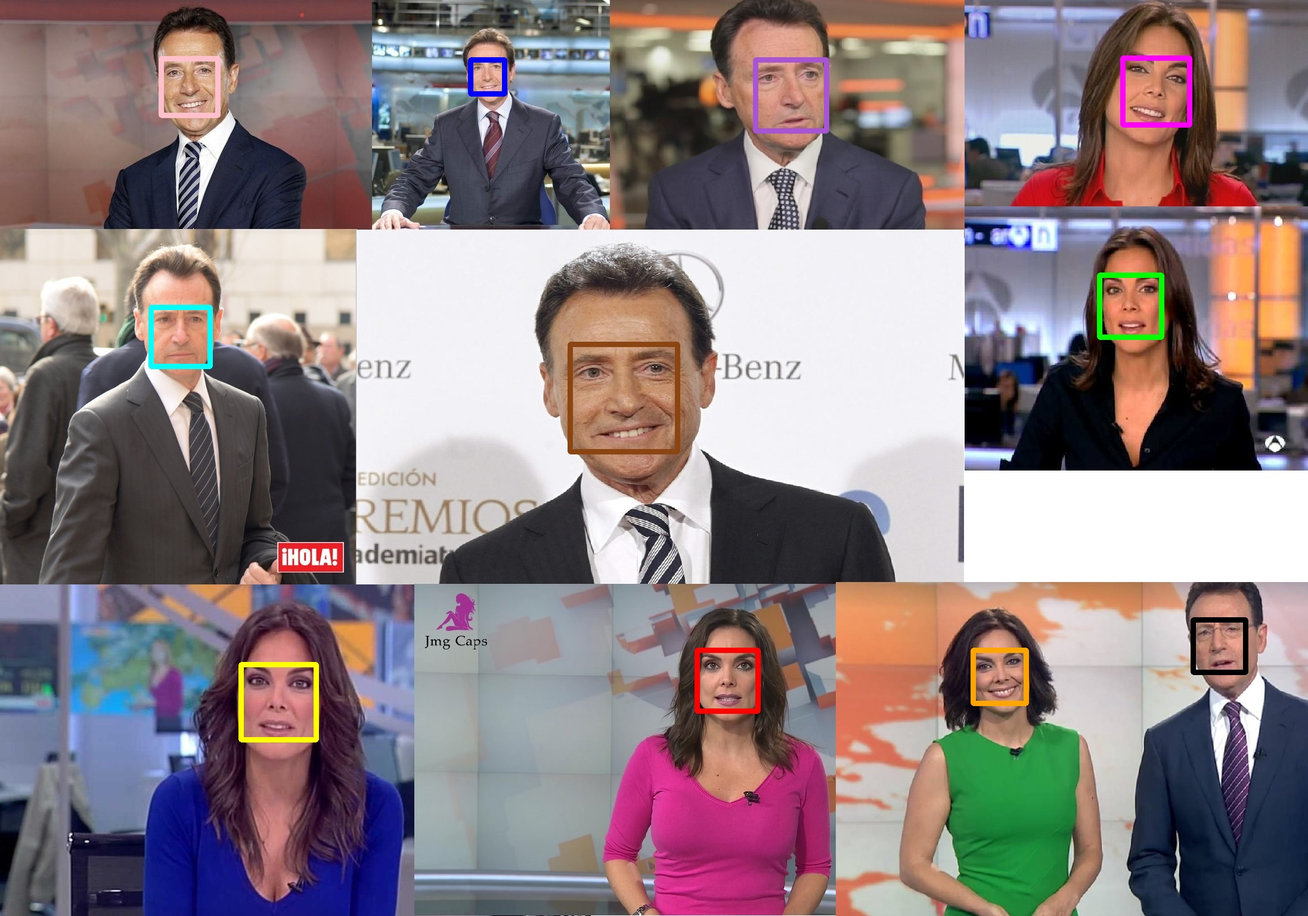
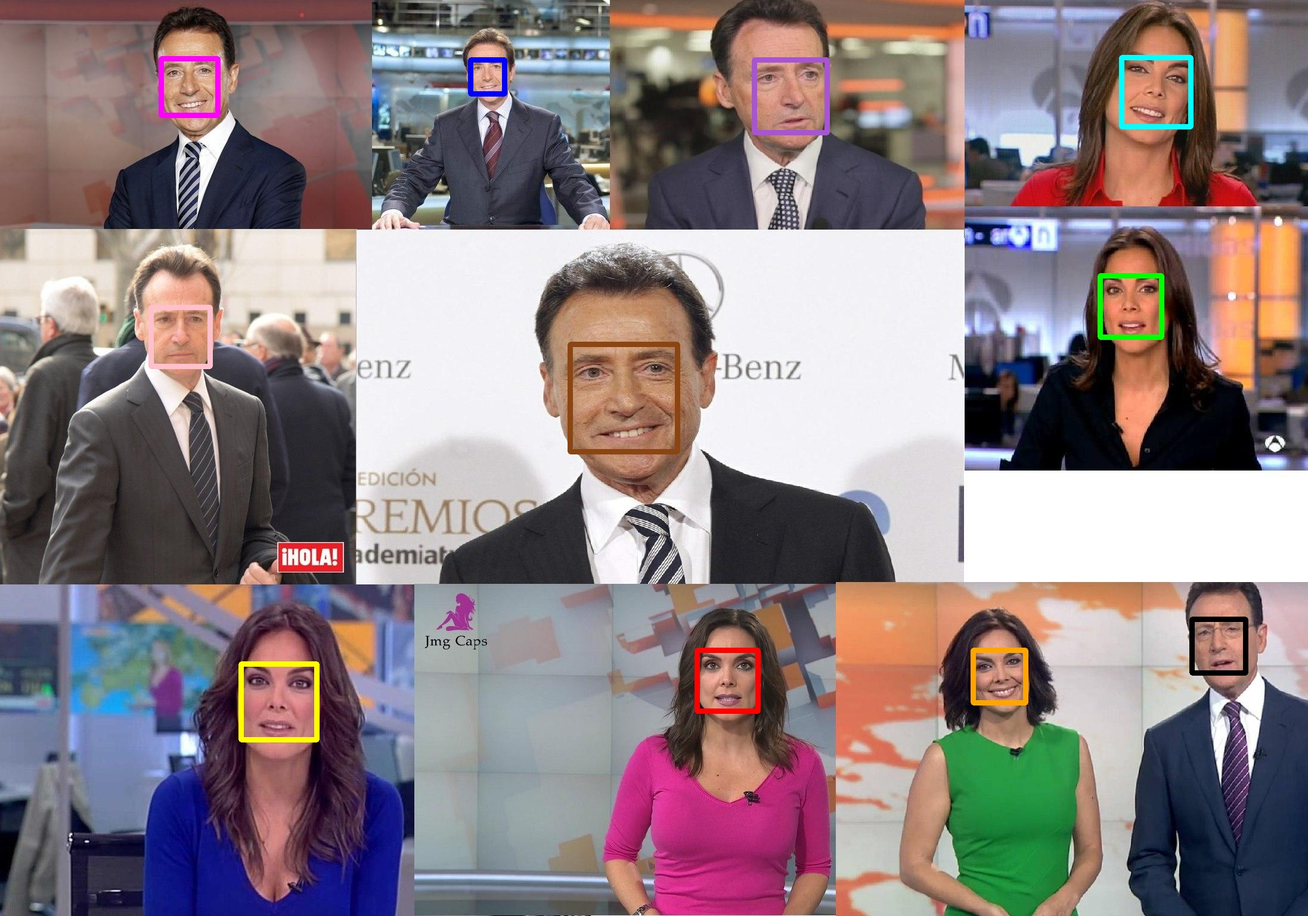
- Ahora se envían imágenes y el bot responde con los porcentajes y las etiquetas de las caras que detecta en la imagen. - Añadidas nuevos atributos a la clase Constantes. - Adaptado ciclo de subir imagen

diff --git a/src/photoBot/Agentes/Comportamiento/ComportamientoAgenteConversacionUsuario.java b/src/photoBot/Agentes/Comportamiento/ComportamientoAgenteConversacionUsuario.java
@@ -4,6 +4,7 @@ import java.io.File;
 import java.io.IOException;
 import java.io.Serializable;
 import java.util.HashMap;
+import java.util.Iterator;
 import java.util.List;
 
 import org.apache.commons.lang3.tuple.Triple;
@@ -25,9 +26,6 @@ import jade.lang.acl.UnreadableException;
 
 public class ComportamientoAgenteConversacionUsuario extends CyclicBehaviour {
 
-	/**
-	 * 
-	 */
 	private static final long serialVersionUID = 1L;
 	private PhotoBot photoBot;
 	private ComportamientoAgenteConversacionUsuario self;
@@ -75,7 +73,7 @@ public class ComportamientoAgenteConversacionUsuario extends CyclicBehaviour {
 				if(comando == ConstantesComportamiento.ENTREGAR_IMG_ENCONTRADAS) {
 					obtenerImagenesBusquedaAgente(msj, msjContent);
 				}
-				else if(comando ==  ConstantesComportamiento.RESPUESTA_SUBIDA_IMAGENES) {
+				else if(comando ==  ConstantesComportamiento.RESULTADO_RECONOCIMIENTO_IMAGEN) {
 					recibirRespuestaSubidaImagenes(msj, msjContent);
 				}
 				else if(comando == -1) {
@@ -108,7 +106,6 @@ public class ComportamientoAgenteConversacionUsuario extends CyclicBehaviour {
 					
 				}
 				
-			
 			} catch (GateException e) {
 				e.printStackTrace();
 			}
@@ -116,9 +113,6 @@ public class ComportamientoAgenteConversacionUsuario extends CyclicBehaviour {
 			//4- Marcar mensaje como leido
 			photoBot.mensajeLeido();
 		}
-
-
-		
 	}
 	
 	public void bot_saludar() {
@@ -166,7 +160,7 @@ public class ComportamientoAgenteConversacionUsuario extends CyclicBehaviour {
 		msjContent.put("LISTA", lFotos);
 						
 		ACLMessage msj = new ACLMessage(ACLMessage.INFORM);
-		msj.addReceiver(new AID("AgenteAlmacenarImagenes", AID.ISLOCALNAME));
+		msj.addReceiver(new AID(ConstantesComportamiento.AGENTE_ALMACENAR_IMAGEN, AID.ISLOCALNAME));
 		
 		try {
 			msj.setContentObject((Serializable)msjContent);
@@ -176,30 +170,15 @@ public class ComportamientoAgenteConversacionUsuario extends CyclicBehaviour {
 			e.printStackTrace();
 		}
 		
-		/*
-		ACLMessage respuesta = self.getAgent().receive();
-		
-		while(respuesta == null) {
-			respuesta = self.getAgent().receive();
-		}
-		
-		String ret = "";
-		
-		if(respuesta.getContent().equals("OK")){
-			ret = "Ya he recibido y almacenado correctamente tus imágenes.";
-			this.conversacion.fotosCargadasCorrectamente();
-			this.conversacion.solicitudSubirFotoFinalizada();
-		}
-		else{
-			ret = "Ha ocurrido un error :( ... ¿Puedes mandarme de nuevo las imágenes?";
-		}
-		
-		photoBot.enviarMensajeTextoAlUsuario(ret);
-		*/
 	}
 	
 	private void recibirRespuestaSubidaImagenes(ACLMessage msj, HashMap<String, Object> contenido) {
 		//if() DEPENDIENDO DE LA RESPUESTA (TODO OK, O FALTAN DATOS) HACER UNA COSA U OTRA
+		List<Triple<String, Integer, Double>> tripletaColorEtiquetaProbabilidad = (List<Triple<String, Integer, Double>>) contenido.get("RESULTADO_RECONOCIMIENTO");
+		
+		for (Triple<String, Integer, Double> triple : tripletaColorEtiquetaProbabilidad) {
+			photoBot.enviarMensajeTextoAlUsuario("El de color: " + triple.getLeft() + " es: " + triple.getMiddle() + " con un porcentaje del: " + triple.getRight());
+		}
 	}
 	
 	/**

diff --git a/src/photoBot/Agentes/Comportamiento/ComportamientoAgenteGestionarCaras.java b/src/photoBot/Agentes/Comportamiento/ComportamientoAgenteGestionarCaras.java
@@ -27,69 +27,66 @@ public class ComportamientoAgenteGestionarCaras extends CyclicBehaviour{
 		super(a);
 		this.self = this;
 		this.gestorCaras = new GestorDeCaras();
-		
-		
+
+
 	}
-	
+
 	@Override
 	public void action() {
 		ACLMessage msj = this.self.getAgent().receive();
 		List<String> list = new ArrayList<>();
-		
+
 		if(msj != null){
-			
+
 			HashMap<String, Object> msjContent;
-			String comando;	
-			
+			int comando;	
+
+
 			try {
-				
 				msjContent = (HashMap<String, Object>) msj.getContentObject();
-								
-				switch ((String) msjContent.get("COMANDO")) {
-				case "DETECTAR_CARAS":
-					
-					String idUsuario = (String) msjContent.get("ID");
-					String urlImagen = (String) msjContent.get("URL_IMAGEN");
-					
-					CarasDetectadas carasDetectadas = this.gestorCaras.obtenerCarasImagen(urlImagen, idUsuario);
-					List<Triple<String, Integer, Double>> tripletaColorEtiquetaProbabilidad = carasDetectadas.getListOfColorTagProbability();
-					
-						
-					msj = new ACLMessage(ACLMessage.INFORM);
-					msj.addReceiver(new AID("AgenteConversacionUsuario", AID.ISLOCALNAME));
-					
-					try {
-						msj.setContentObject((Serializable) tripletaColorEtiquetaProbabilidad);
-						getAgent().send(msj);
-					} catch (IOException e) {
-						// TODO Auto-generated catch block
-						e.printStackTrace();
-					}
-					
-					/**
-					 PENDIENTE PROCESAR POR SEPARADO
-					for (Triple<String, Integer, Double> triple : tripletaColorEtiquetaProbabilidad) {
-						
-					}**/
-					
-					
-					break;
-				
-				case "...":
-					
-					
-					break;
-					
-				default:
-					break;
-				}		
-				
-				
+				comando = (int) msjContent.get("COMANDO");
+
+				if (comando == ConstantesComportamiento.RECONOCER_CARAS){
+					enviarResultadosClasificacionAgenteConversacional(msjContent);
+				}
 			} catch (UnreadableException e) {
+				// TODO Auto-generated catch block
 				e.printStackTrace();
 			}
-			
+
+		}
+
+
+
+	}
+
+	private void enviarResultadosClasificacionAgenteConversacional(HashMap<String, Object> msjContent){
+		ACLMessage msj = this.self.getAgent().receive();
+		msj = new ACLMessage(ACLMessage.INFORM);
+
+		String idUsuario = (String) msjContent.get("ID");
+		String urlImagen = (String) msjContent.get("URL_IMAGEN");
+
+		CarasDetectadas carasDetectadas = this.gestorCaras.obtenerCarasImagen(urlImagen, idUsuario);
+		List<Triple<String, Integer, Double>> tripletaColorEtiquetaProbabilidad = carasDetectadas.getListOfColorTagProbability();
+
+
+		msjContent = new HashMap<String, Object>();
+
+		msj.addReceiver(new AID(ConstantesComportamiento.AGENTE_CONVERSACION_USUARIO, AID.ISLOCALNAME));
+
+		msjContent.put("COMANDO", ConstantesComportamiento.RESULTADO_RECONOCIMIENTO_IMAGEN);
+		msjContent.put("RESULTADO_RECONOCIMIENTO", tripletaColorEtiquetaProbabilidad);
+
+		try {
+			msj.setContentObject(msjContent);
+			getAgent().send(msj);
+
+		} catch (IOException e) {
+			// TODO Auto-generated catch block
+			e.printStackTrace();
 		}
 	}
+
 
 }

diff --git a/src/photoBot/Agentes/Comportamiento/ComportamientoAgenteAlmacenarImagen.java b/src/photoBot/Agentes/Comportamiento/ComportamientoAgenteAlmacenarImagen.java
@@ -29,9 +29,7 @@ public class ComportamientoAgenteAlmacenarImagen extends FSMBehaviour {
 		this.self = this;
 		
 		registerFirstState(new OneShotBehaviour() {
-			/**
-			 * 
-			 */
+
 			private static final long serialVersionUID = 1L;
 			private int estado = 0;
 
@@ -50,9 +48,7 @@ public class ComportamientoAgenteAlmacenarImagen extends FSMBehaviour {
 		
 		
 		registerState(new OneShotBehaviour() {
-			/**
-			 * 
-			 */
+
 			private static final long serialVersionUID = 1L;
 			private int estado = 1;
 
@@ -90,9 +86,7 @@ public class ComportamientoAgenteAlmacenarImagen extends FSMBehaviour {
 		}, "ESTADO_ESPERA_RECIBIR");
 		
 		registerState(new OneShotBehaviour() {
-			/**
-			 * 
-			 */
+
 			private static final long serialVersionUID = 1L;
 			private int estado = 3;
 
@@ -114,12 +108,12 @@ public class ComportamientoAgenteAlmacenarImagen extends FSMBehaviour {
 						
 						HashMap<String, Object> msjContent = new HashMap<String, Object>();
 						
-						
+						msjContent.put("COMANDO", ConstantesComportamiento.RECONOCER_CARAS);
 						msjContent.put("ID", userID);
 						msjContent.put("URL_IMAGEN", url_img);
 										
 						ACLMessage msj = new ACLMessage(ACLMessage.INFORM);
-						msj.addReceiver(new AID("AgenteGestionarCaras", AID.ISLOCALNAME));
+						msj.addReceiver(new AID(ConstantesComportamiento.AGENTE_GESTIONAR_CARAS, AID.ISLOCALNAME));
 						
 						try {
 							msj.setContentObject((Serializable)msjContent);
@@ -138,11 +132,7 @@ public class ComportamientoAgenteAlmacenarImagen extends FSMBehaviour {
 
 				}	
 				
-				/*ACLMessage msj = new ACLMessage(ACLMessage.INFORM);
-				msj.addReceiver(new AID("AgenteConversacional", AID.ISLOCALNAME));
-				msj.setContent("OK");
-				self.getAgent().send(msj);*/
-				
+	
 				this.estado = 4;
 			}
 			

diff --git a/src/photoBot/OpenCV/GestorDeCaras.java b/src/photoBot/OpenCV/GestorDeCaras.java
@@ -119,11 +119,11 @@ public class GestorDeCaras {
 	private void actualizarClasificadorPersonalizado(int idClasificador, CarasDetectadas carasDetectadas) {
 		
 		FaceRecognizer lbphClasificador = LBPHFaceRecognizer.create();
-		lbphClasificador.read("./clasificadores/" + idClasificador);
+		lbphClasificador.read("./clasificadores/" + idClasificador + ".xml");
 		
 		lbphClasificador.update(carasDetectadas.getListOfMat(), carasDetectadas.getListOfLabels());
 		
-		lbphClasificador.save("./clasificadores/" + idClasificador);
+		lbphClasificador.save("./clasificadores/" + idClasificador + ".xml");
 	}
 	
 	private void crearClasificadorPersonalizado(int idUsuario, CarasDetectadas carasDetectadas) {
@@ -131,7 +131,7 @@ public class GestorDeCaras {
 		
 		lbphClasificador.train(carasDetectadas.getListOfMat(), carasDetectadas.getListOfLabels());
 		
-		lbphClasificador.save("./clasificadores/" + idUsuario);
+		lbphClasificador.save("./clasificadores/" + idUsuario + ".xml");
 	}
 	
 	private List<Pair<Integer, Double>> dameEtiquetasPorcentajes(MatOfRect carasDetectadas, String urlImagen, String idUsuario){
@@ -144,11 +144,11 @@ public class GestorDeCaras {
 		FaceRecognizer lbphClasificador = LBPHFaceRecognizer.create();
 		
 		//1. Ver si existe el clasificador
-		File f = new File("./clasificadores/" + idUsuario);
+		File f = new File("./clasificadores/" + idUsuario + ".xml");
 		
 		//2. Si el clasificador existe
 		if(f.exists()){
-			lbphClasificador.read("./clasificadores/" + idUsuario);
+			lbphClasificador.read("./clasificadores/" + idUsuario + ".xml");
 			
 			for(Rect rect : carasDetectadas.toArray()) {
 				Mat cara = new Mat(imagen, rect);

diff --git a/src/photoBot/Main.java b/src/photoBot/Main.java
@@ -3,6 +3,7 @@ package photoBot;
 import jade.core.ProfileImpl;
 import jade.core.Runtime;
 import jade.wrapper.*;
+import photoBot.Agentes.Comportamiento.ConstantesComportamiento;
 public class Main {
 	
 	public static void main(String[] args) {
@@ -15,17 +16,20 @@ public class Main {
 		try {
 			
 			//AGENTE CONVERSACION
-			AgentController agentController = container.createNewAgent("AgenteConversacional", "photoBot.Agentes.AgenteConversacionUsuario", null);			
+			AgentController agentController = container.createNewAgent(ConstantesComportamiento.AGENTE_CONVERSACION_USUARIO, "photoBot.Agentes.AgenteConversacionUsuario", null);			
 			agentController.start();
 			
 			//AGENTE SUBIR iMAGEN
-			agentController = container.createNewAgent("AgenteAlmacenarImagenes", "photoBot.Agentes.AgenteAlmacenarImagenes", null);			
+			agentController = container.createNewAgent(ConstantesComportamiento.AGENTE_ALMACENAR_IMAGEN, "photoBot.Agentes.AgenteAlmacenarImagenes", null);			
 			agentController.start();
 			
 			//AGENTE BUSCAR iMAGEN
-			agentController = container.createNewAgent("AgenteBuscarImagen", "photoBot.Agentes.AgenteBuscarImagen", null);			
+			agentController = container.createNewAgent(ConstantesComportamiento.AGENTE_BUSCAR_IMAGEN, "photoBot.Agentes.AgenteBuscarImagen", null);			
 			agentController.start();
 			
+			//AGENTE GESTIONAR CARAS
+			agentController = container.createNewAgent(ConstantesComportamiento.AGENTE_GESTIONAR_CARAS, "photoBot.Agentes.AgenteGestionarCaras", null);			
+			agentController.start();			
 			
 		} catch (StaleProxyException e) {
 			e.printStackTrace();

diff --git a/src/photoBot/Agentes/Comportamiento/ConstantesComportamiento.java b/src/photoBot/Agentes/Comportamiento/ConstantesComportamiento.java
@@ -5,21 +5,26 @@ public final class ConstantesComportamiento {
 	public static final int ENVIAR_IMG_AGENTE;
 	public static final int SOLICITAR_IMG_AGENTE;
 	public static final int ENTREGAR_IMG_ENCONTRADAS;
-	public static final int RESPUESTA_SUBIDA_IMAGENES;
-	public static final int SUBIDA_IMG_EXITO;
-	public static final int SUBIDA_IMG_ERROR;
-	public static final int SUBIDA_IMG_REQ_DATOS;
-	
+	public static final int RESULTADO_RECONOCIMIENTO_IMAGEN;
+	public static final int RECONOCER_CARAS;
+
+	public static final String AGENTE_ALMACENAR_IMAGEN;
+	public static final String AGENTE_BUSCAR_IMAGEN;
+	public static final String AGENTE_CONVERSACION_USUARIO;
+	public static final String AGENTE_GESTIONAR_CARAS;
+
 	static {
 		OBTENER_IMG_AGENTE = 1;
 		ENVIAR_IMG_AGENTE = 2;
 		SOLICITAR_IMG_AGENTE = 3;
 		ENTREGAR_IMG_ENCONTRADAS = 4;
-		RESPUESTA_SUBIDA_IMAGENES = 5;
-		SUBIDA_IMG_EXITO = 6;
-		SUBIDA_IMG_ERROR = 7;
-		SUBIDA_IMG_REQ_DATOS = 8;
+		RESULTADO_RECONOCIMIENTO_IMAGEN = 5;
+		RECONOCER_CARAS = 6;
 		
+		AGENTE_ALMACENAR_IMAGEN = "AgenteAlmacenarImagenes";
+		AGENTE_BUSCAR_IMAGEN = "AgenteBuscarImagen";
+		AGENTE_CONVERSACION_USUARIO = "AgenteConversacional";
+		AGENTE_GESTIONAR_CARAS = "AgenteGestionarCaras";
 	}
 	
 	public ConstantesComportamiento() {

diff --git a/src/photoBot/OpenCV/CarasDetectadas.java b/src/photoBot/OpenCV/CarasDetectadas.java
@@ -32,8 +32,11 @@ public class CarasDetectadas {
 	 */
 	public CarasDetectadas(MatOfRect caras, List<Pair<Integer, Double>> personas, String url) {
 		this.carasDetectadas = caras;
-		this.rellenarHashMapPersonas(personas);
 		this.urlImagen = url;
+		this.lCarasEtiquetadas = new HashMap<String, Pair<Integer, Double>>();
+		
+		
+		this.rellenarHashMapPersonas(personas);
 	}
 	
 	private void rellenarHashMapPersonas(List<Pair<Integer, Double>> personas) {

diff --git a/src/photoBot/Agentes/AgenteConversacionUsuario.java b/src/photoBot/Agentes/AgenteConversacionUsuario.java
@@ -25,9 +25,6 @@ import photoBot.Agentes.Comportamiento.ComportamientoAgenteConversacionUsuario;
 
 public class AgenteConversacionUsuario extends Agent {
 	
-	/**
-	 * 
-	 */
 	private static final long serialVersionUID = 1L;
 	private PhotoBot photoBot;
 	private TelegramBotsApi apiTelegram;
